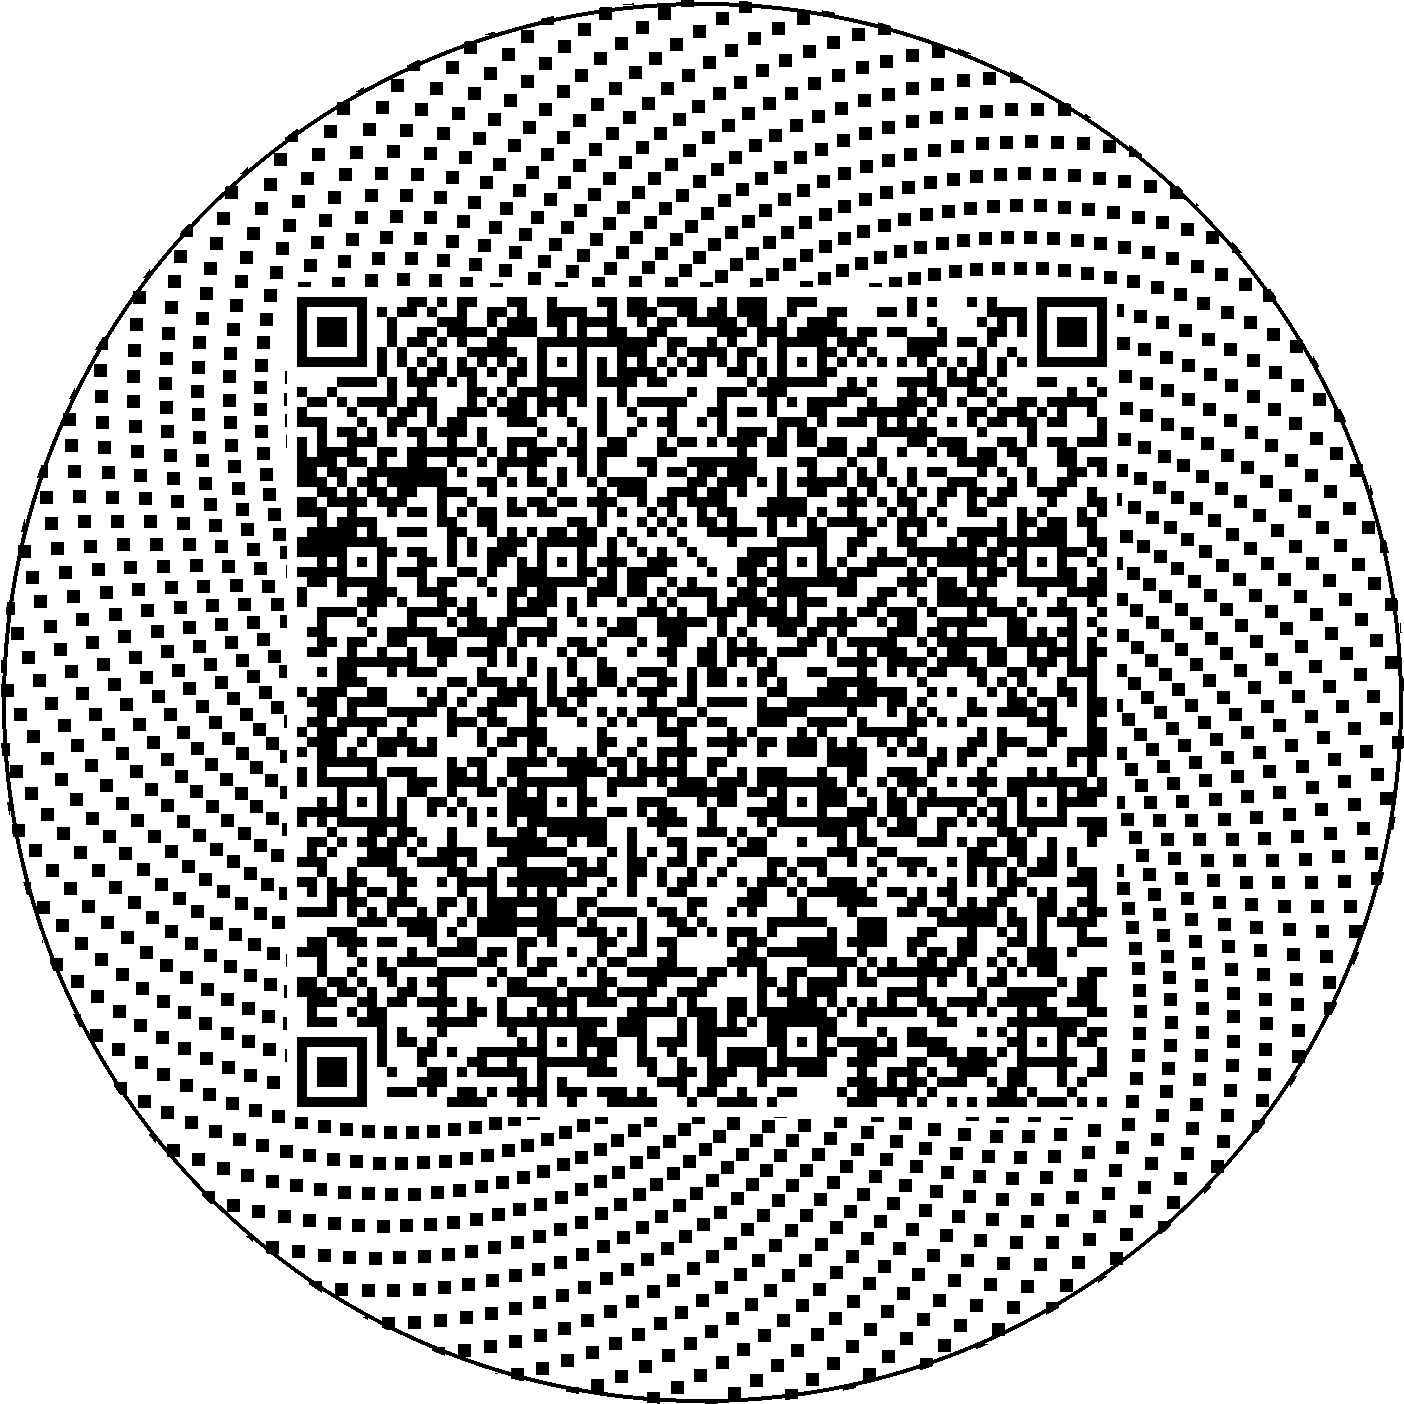
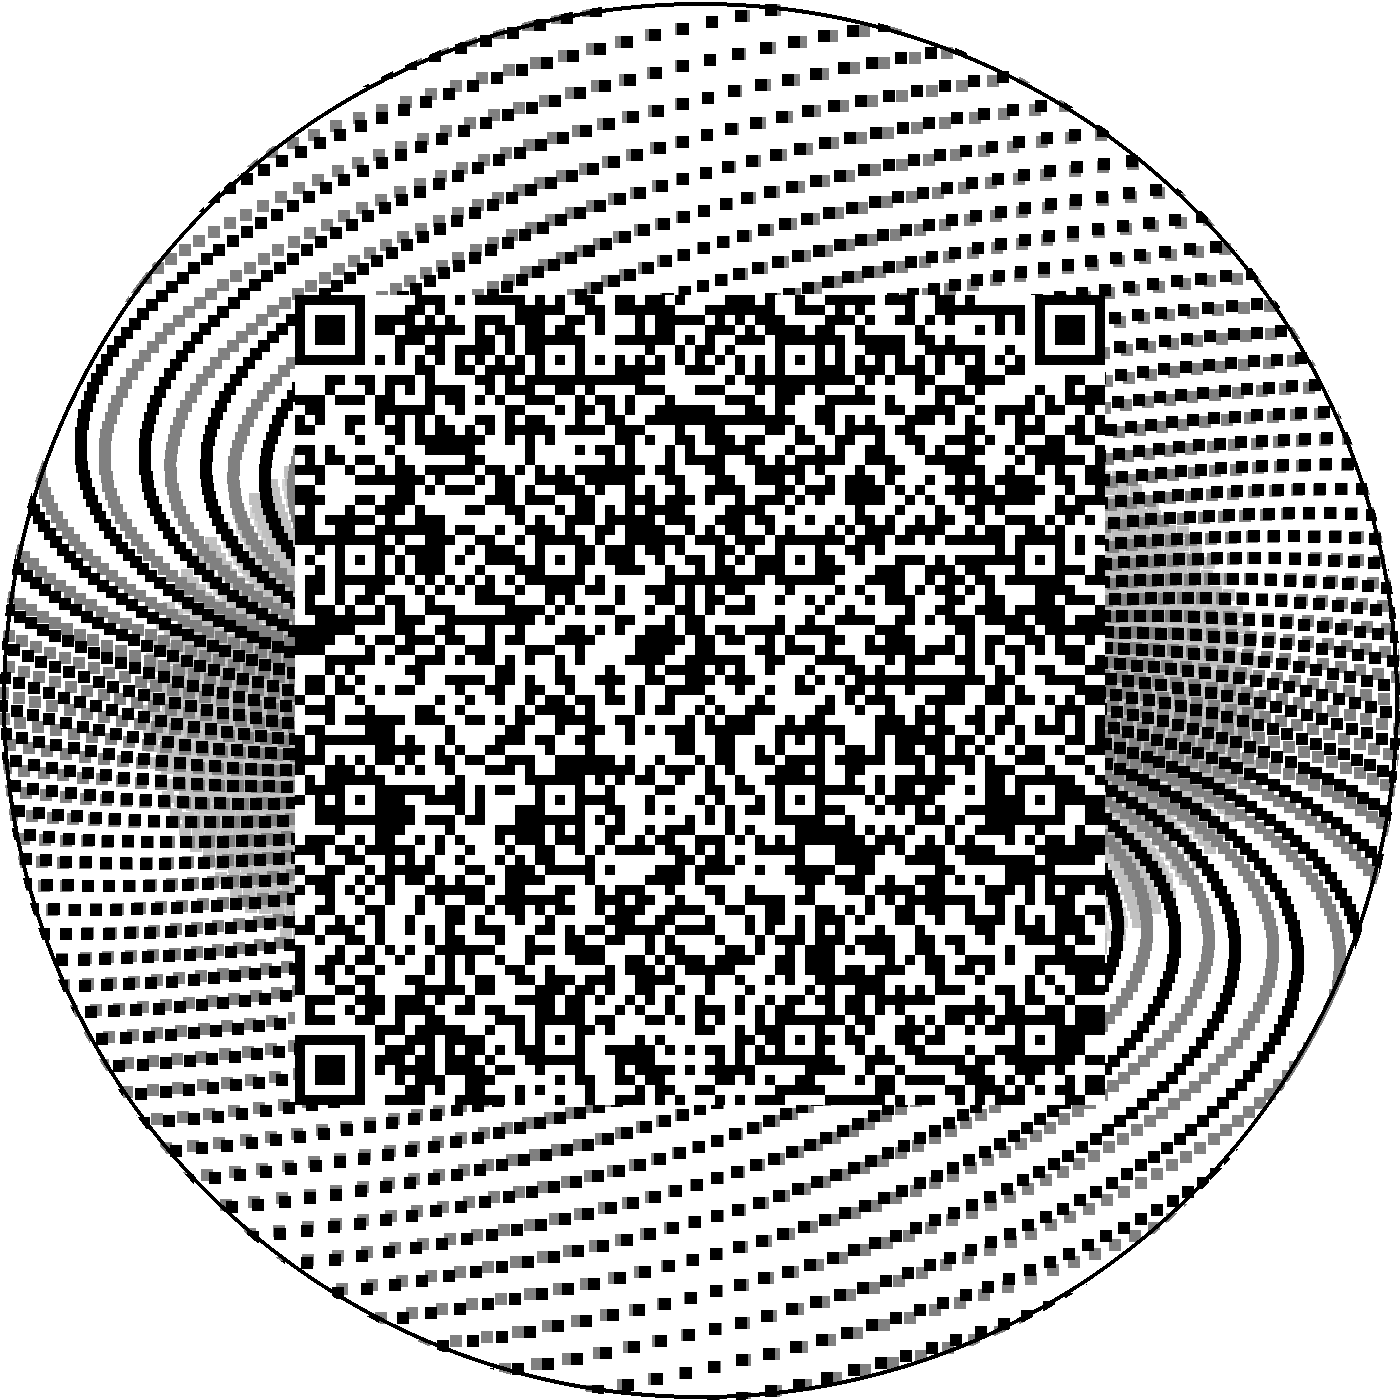
quality of life.

diff --git a/vcard/vcardGen.py b/vcard/vcardGen.py
@@ -11,9 +11,31 @@ import numpy as np
 from PIL import Image, ImageDraw
 import qrcode
 
+def generar_numero_aleatorio():
+    if np.random.rand() < .66:
+        return (round(np.random.rand(), 1) + 1) * (round(np.random.rand(), 1) + 1)
+    return 1
+def dibujar_espiral(radio_total, dotmultiplicator, color, radio_qr, messy):
+    numero_aleatorioA = numero_aleatorioB = isinvertido = 1
+    if np.random.rand() < np.random.rand():
+        numero_aleatorioA = generar_numero_aleatorio()
+    if np.random.rand() < np.random.rand():
+        numero_aleatorioB = generar_numero_aleatorio()
+    if np.random.rand() < 0.5:
+        isinvertido = generar_numero_aleatorio()
+    for i in range(radio_total*dotmultiplicator):
+        if messy:
+            angle = .1*i*isinvertido*(radio_qr/350/2)
+        else:
+            angle = .1*i*isinvertido*(radio_qr/350)
+        r = angle
+        
+        point_x = int(radio_total + r * np.cos(angle)*numero_aleatorioA)
+        point_y = int(radio_total + r * np.sin(angle)*numero_aleatorioB)
+        dibujo_fondo.rectangle([point_x, point_y, point_x + dot, point_y + dot], fill=color)
 # Información de la vCard
-nombre = "Alejandro"
-apellido = "Donoso"
+nombre = "QUIEN TE DIO "
+apellido = "PERMISO DE ESCANEARME"
 nombre_completo = f"{nombre} {apellido}"
 organizacion = "ElStickman codes"
 titulo = "Dueño"
@@ -44,21 +66,25 @@ NOTE:{nota}
 END:VCARD
 """.strip()
 
-print(vcard_info)
+#print(vcard_info)
 
 # Parámetros para el diseño
 radio_qr = 350
+dotmultiplicator = 10
 radio_exterior = radio_qr *2
-radio_total = radio_exterior + 2
+dot = radio_qr/30
+print(f"Tamaño esperado {radio_exterior*2}x{radio_exterior*2}")
+radio_total = radio_exterior
 grosor_borde = 2
 color_borde = 'black'
+
 
 # Generación del código QR
 qr = qrcode.QRCode(
     version=1,
     error_correction=qrcode.constants.ERROR_CORRECT_H,
-    box_size=10,
-    border=1,
+    box_size=radio_qr/32,
+    border=0,
 )
 qr.add_data(vcard_info)
 qr.make(fit=True)
@@ -68,13 +94,12 @@ qr_img = qr.make_image(fill_color="black", back_color="white").convert('RGB')
 img_fondo = Image.new('RGB', (radio_total * 2, radio_total * 2), 'white')
 dibujo_fondo = ImageDraw.Draw(img_fondo)
 
-for i in range(20000):
-    angle = .2*i
-    r = angle
-    point_x = int(radio_total + r * np.cos(angle))
-    point_y = int(radio_total + r * np.sin(angle))
-    dot = 4*3 #* np.random.uniform(1, 3)
-    dibujo_fondo.rectangle([point_x, point_y, point_x + dot, point_y + dot], fill='black')
+
+dibujar_espiral(radio_total, dotmultiplicator, 'lightgrey', radio_qr, True)
+dibujar_espiral(radio_total, dotmultiplicator, 'silver', radio_qr, True)
+dibujar_espiral(radio_total, dotmultiplicator, 'grey', radio_qr, False)
+dibujar_espiral(radio_total, dotmultiplicator, 'black', radio_qr, False)
+
 
 # Añadir el borde
 dibujo_fondo.ellipse(
